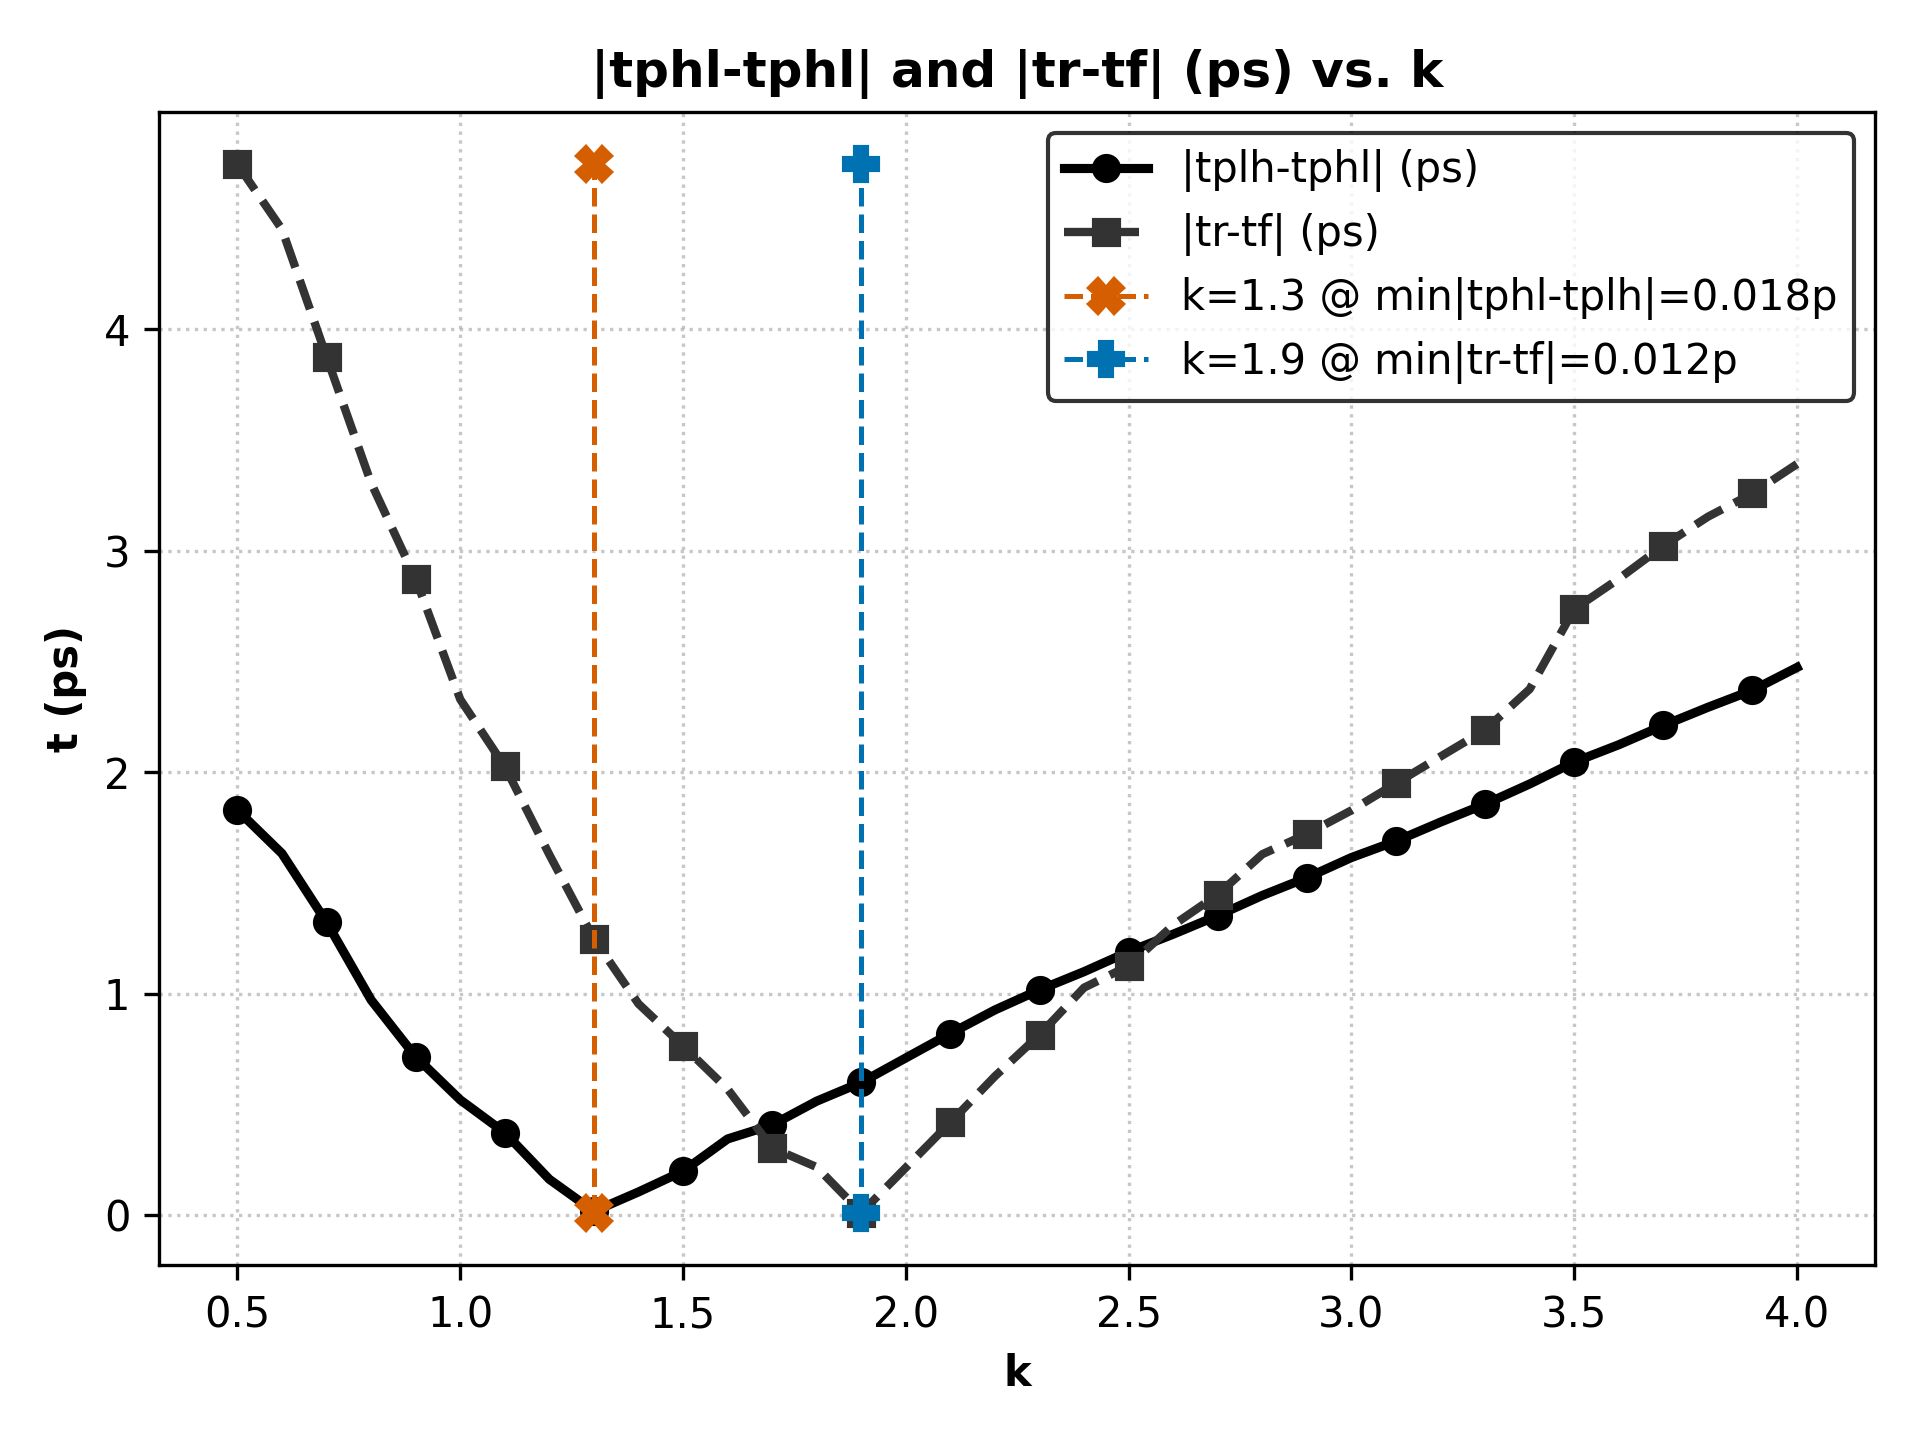
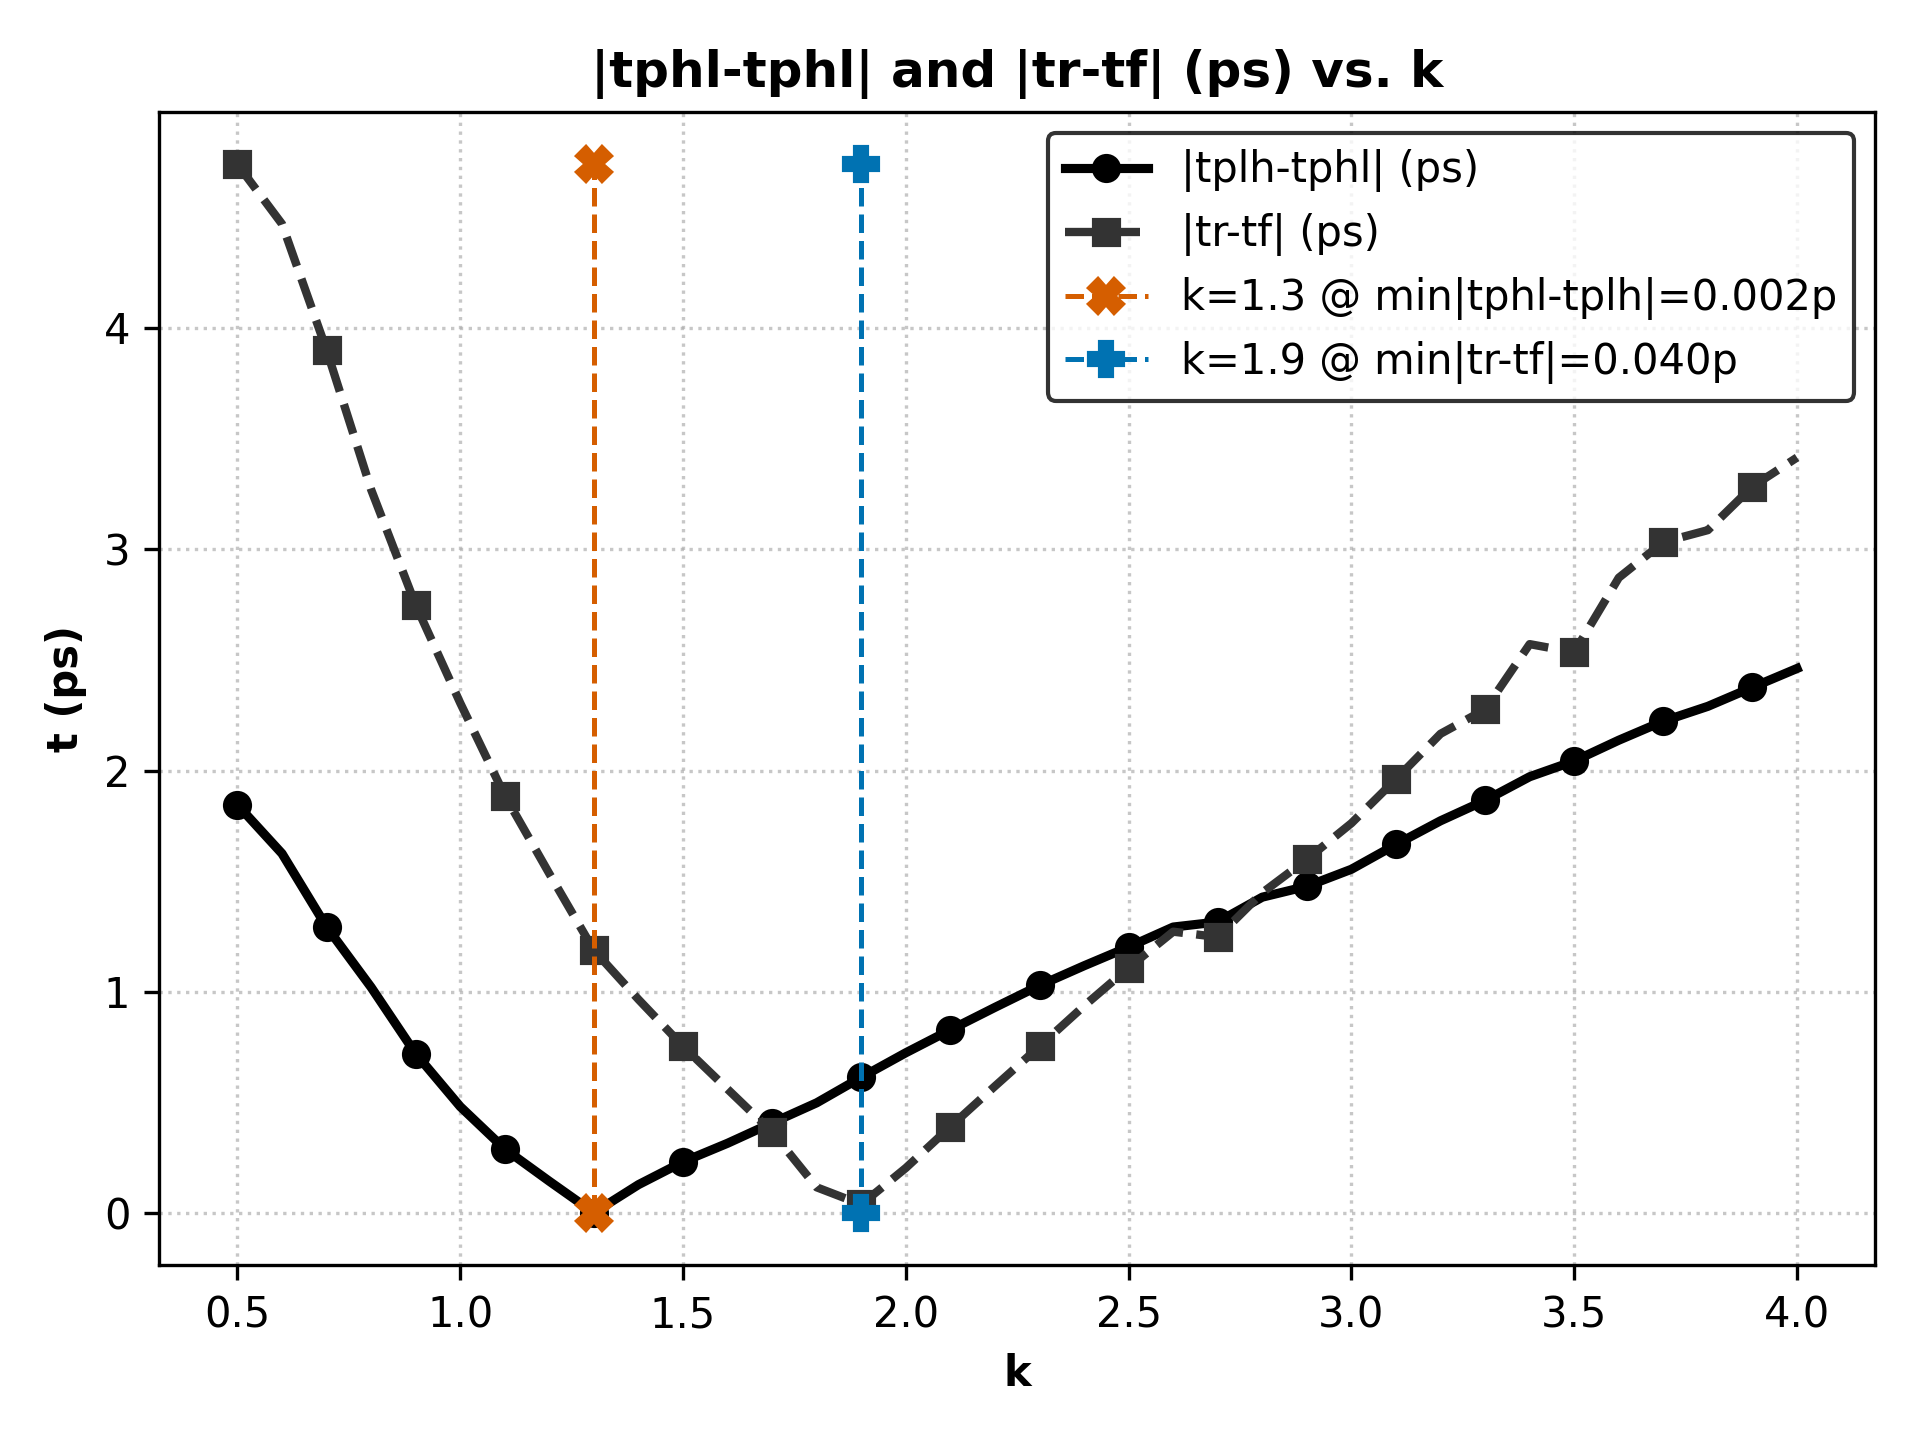
finished correcting k sweep for part 1, plus reran downstream tests

diff --git a/build_deck.py b/build_deck.py
@@ -33,11 +33,11 @@ X4 out 6 vdd vss inv k='K'
 X5 6 7 vdd vss inv k='K'
 X6 7 8 vdd vss inv k='K'
 
-Vin 1 0 PULSE(0.8 0 10p x x 80p 200p)
+Vin 1 0 PULSE(0.8 0 1n x x 1n 2n)
 """
     tran = f"""
 * adding sweep
-.tran 0.01p 200p SWEEP K LIN {(k_stop - k_start)/k_res + 1} {k_start} {k_stop}
+.tran 0.01p 3n SWEEP K LIN {(k_stop - k_start)/k_res + 1} {k_start} {k_stop}
 """
 
     meas = """
@@ -71,7 +71,7 @@ def write_inv_loop(output_file:str="sp/inv_loop.sp",
                     inv_count:int=21,
                     input_rise_time:float=5.7,
                     vdd:float=0.8,
-                    K:float=1.4,
+                    K:float=1.3,
                     gnd_start:float=0.0, gnd_stop:float=0.4, gnd_res:float=0.01):
 
     header = f"""Inverter 7x Chain -- Exercise 1.a, hspice
@@ -137,7 +137,7 @@ def write_inv_loop_1x(output_file:str="sp/inv_loop.sp",
                     model_path:str="models/22nm_HP.sp",
                     input_rise_time:float=5.7,
                     vdd:float=0.8,
-                    K:float=1.4,
+                    K:float=1.3,
                     k_start:float=0.3, k_stop:float=10, k_res:float=0.1):
 
     header = f"""Inverter SWP 1x loop
@@ -187,7 +187,7 @@ v1 vss 0 dc 'gnd_val'
 def write_iv_char(output_file:str="sp/nmos_iv_char.sp",
                 model_path:str="models/22nm_HP.sp",
                 vdd:float=0.8,
-                K:float=1.4,
+                K:float=1.3,
                 type:str="nmos", #or pmos
                 vgs_start:float=0.4, vgs_stop:float=0.8, vgs_res:float=0.1,
                 vds_start:float=0, vds_stop:float=0.8, vds_res:float=0.1):

diff --git a/inv_7x.py b/inv_7x.py
@@ -120,6 +120,16 @@ class inv_7x:
         md_table_str = self.df.to_markdown(index=False)
         with open (f"{data_dir}/{self.base_name}.md", 'w') as md:
             print(md_table_str, file=md)
+
+        # adding split table
+        df_tp_only = self.df[['k', 'tphl', 'tplh', 'diff_tplh_tphl']].copy()
+        md_tp_only_table = df_tp_only.to_markdown(index=False)
+        df_trf_only = self.df[['k', 'tr', 'tf', 'diff_tr_tf']].copy()
+        md_trf_only_table = df_trf_only.to_markdown(index=False)
+        with open (f"{data_dir}/{self.base_name}_split_tables.md", 'w') as md:
+                    print(md_tp_only_table, file=md)
+                    print("\n", file=md)
+                    print(md_trf_only_table, file=md)
         return
 
     
@@ -140,7 +150,7 @@ if __name__=="__main__":
     deck_10p.tabulate_inv_7x()
 
     if args.write_deck: 
-        build.write_inv_7x(output_file="sp/inv_7x_6p.sp", input_rise_time=5.7)
+        build.write_inv_7x(output_file="sp/inv_7x_6p.sp", input_rise_time=5.65)
     
     deck_6p = inv_7x("inv_7x_6p")
     if args.run_sim: #run spice sim

diff --git a/inv_loop_ro.py b/inv_loop_ro.py
@@ -59,7 +59,7 @@ if __name__=="__main__":
     args=parser.parse_args()
 
     if args.write_deck: 
-        build.write_inv_loop(output_file="sp/inv_loop_21x.sp", input_rise_time=5.7, K=1.4)
+        build.write_inv_loop(output_file="sp/inv_loop_21x.sp", input_rise_time=5.7, K=1.3)
 
         deck = inv_loop_ro("inv_loop_21x.sp")
     if args.run_sim: #run spice sim
@@ -68,7 +68,7 @@ if __name__=="__main__":
     deck.tabulate_inv_loop_ro()
 
     if args.write_deck: 
-        build.write_inv_loop(output_file="sp/inv_loop_3x.sp", input_rise_time=5.7, K=1.4, inv_count=3)
+        build.write_inv_loop(output_file="sp/inv_loop_3x.sp", input_rise_time=5.7, K=1.3, inv_count=3)
 
         deck2 = inv_loop_ro("inv_loop_3x.sp")
     if args.run_sim: #run spice sim

diff --git a/results/Exercise_2.md b/results/Exercise_2.md
@@ -8,7 +8,7 @@ tplh = tphl = T / (<num_stages>*2)
 Using the results from Exercise 1 and Exercise 2.a:
 | k | tplh (ps) | tphl (ps) | T / 42 (ps) |
 |-|-|-|-|
-| 1.4 |  3.122 | 3.164 |  3.15 |
+| 1.3 |  3.135 | 3.101 |   3.132 |
 ## Current Starving a 3x Inverter Ring Oscillator
 
 When we increase the voltage of the ground node, we are decreasing the net voltage difference across VDD and ground and therefore reducing the drive strength each stage. This results in a slower frequency as shown below.

diff --git a/results/Exercise_3.md b/results/Exercise_3.md
@@ -22,7 +22,7 @@
 ## PMOS Caclulated ROn
 | Ron Caclulated Using BSIM4 Defaults (ohm) | Ron Calculated Using Model Card (Ohm) | Ron Simulated |
 |-|-|-|
-| 12411 | 3528.47 | 9790.96 |
+| 13365.79 | 3799.88 | 97980.16 |
 
 <p align=center>
     <img src="../graphs/nmos_iv_char.png" alt="nmos Iv characteristic curve" width="48%">
